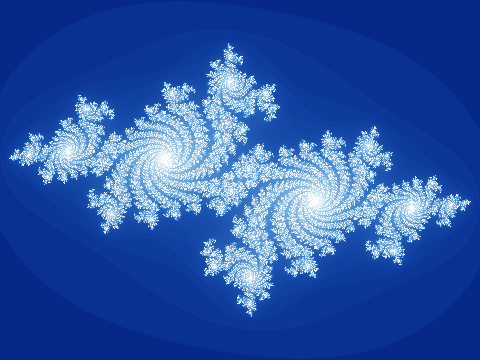
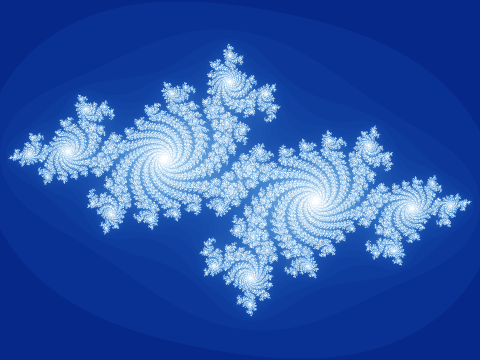
added a first downsizing impl.

Changed region(s): [[0.0, 0.1222, 1.0, 0.8861]]

diff --git a/sources/main.c b/sources/main.c
@@ -11,24 +11,30 @@
 static const unsigned int kWidth = 480;
 static const unsigned int kHeight = 360;
 
-static const unsigned int kFlagWidth = 480;
-static const unsigned int kFlagHeight = 320;
+static const unsigned int kFlagWidth = 48;
+static const unsigned int kFlagHeight = 32;
 
 
 int main(int argc, char *argv[])
 {
-    unsigned char *image = malloc(kWidth * kHeight * 3);
-
+    unsigned char *image = malloc(kWidth * kHeight * 4 * 3);
+    unsigned char *reducedImage = NULL;
 
     // Country flags
-    RenderFrenchFlag(image, kFlagWidth, kFlagHeight);
-    SaveImagePNG("result/flagFR.png", image, kFlagWidth, kFlagHeight);
+    RenderFrenchFlag(image, kFlagWidth << 1, kFlagHeight << 1);
+    reducedImage = Downsize(image, kFlagWidth << 1, kFlagHeight << 1);
+    SaveImagePNG("result/flagFR.png", reducedImage, kFlagWidth, kFlagHeight);
+    free(reducedImage);
 
-    RenderJapaneseFlag(image, kFlagWidth, kFlagHeight);
-    SaveImagePNG("result/flagJP.png", image, kFlagWidth, kFlagHeight);
+    RenderJapaneseFlag(image, kFlagWidth << 1, kFlagHeight << 1);
+    reducedImage = Downsize(image, kFlagWidth << 1, kFlagHeight << 1);
+    SaveImagePNG("result/flagJP.png", reducedImage, kFlagWidth, kFlagHeight);
+    free(reducedImage);
 
-    RenderAmericanFlag(image, kFlagWidth, kFlagHeight);
-    SaveImagePNG("result/flagUS.png", image, kFlagWidth, kFlagHeight);
+    RenderAmericanFlag(image, kFlagWidth << 1, kFlagHeight << 1);
+    reducedImage = Downsize(image, kFlagWidth << 1, kFlagHeight << 1);
+    SaveImagePNG("result/flagUS.png", reducedImage, kFlagWidth, kFlagHeight);
+    free(reducedImage);
 
 
     // Fractals
@@ -40,8 +46,10 @@ int main(int argc, char *argv[])
     params.xMin = -2.2; params.xMax = 1.03;
     params.yMin = -1.33; params.yMax = 1.33;
 
-    RenderFractal(params, image, kWidth, kHeight);
-    SaveImagePNG("result/mandelbrot.png", image, kWidth, kHeight);
+    RenderFractal(params, image, kWidth << 1, kHeight << 1);
+    reducedImage = Downsize(image, kWidth << 1, kHeight << 1);
+    SaveImagePNG("result/mandelbrot.png", reducedImage, kWidth, kHeight);
+    free(reducedImage);
 
     // Julia set
     params.mode = FractalModeJulia;
@@ -49,14 +57,18 @@ int main(int argc, char *argv[])
     params.yMin = -1.17; params.yMax = 1.17;
     params.cr = -0.7; params.ci = 0.27;
 
-    RenderFractal(params, image, kWidth, kHeight);
-    SaveImagePNG("result/julia.png", image, kWidth, kHeight);
+    RenderFractal(params, image, kWidth << 1, kHeight << 1);
+    reducedImage = Downsize(image, kWidth << 1, kHeight << 1);
+    SaveImagePNG("result/julia.png", reducedImage, kWidth, kHeight);
+    free(reducedImage);
 
     params.xMin = -1.44; params.xMax = 1.44;
     params.cr = -0.4; params.ci = 0.6;
 
-    RenderFractal(params, image, kWidth, kHeight);
-    SaveImagePNG("result/julia2.png", image, kWidth, kHeight);
+    RenderFractal(params, image, kWidth << 1, kHeight << 1);
+    reducedImage = Downsize(image, kWidth << 1, kHeight << 1);
+    SaveImagePNG("result/julia2.png", reducedImage, kWidth, kHeight);
+    free(reducedImage);
 
     free(image);
 

diff --git a/sources/tools/image.c b/sources/tools/image.c
@@ -1,0 +1,35 @@
+// image.c
+//
+// written by Thomas CARTON
+//
+
+#include <stdlib.h>
+
+#include "image.h"
+
+
+unsigned char *Downsize(unsigned char *image, unsigned int width, unsigned int height)
+{
+    unsigned int line = width * 3;
+
+    width >>= 1; height >>= 1;
+    unsigned char *out = malloc(3 * width * height);
+
+    for (unsigned int y = 0; y < height; ++y)
+    {
+        for (unsigned int x = 0; x < width; ++x)
+        {
+            unsigned int ip = y * 4 * width + 2 * x;
+            unsigned char r = ((unsigned short)image[ip * 3 + 0] + image[ip * 3 + line + 0] + image[ip * 3 + 3 + 0] + image[ip * 3 + 3 + line + 0]) >> 2;
+            unsigned char g = ((unsigned short)image[ip * 3 + 1] + image[ip * 3 + line + 1] + image[ip * 3 + 3 + 1] + image[ip * 3 + 3 + line + 1]) >> 2;
+            unsigned char b = ((unsigned short)image[ip * 3 + 2] + image[ip * 3 + line + 2] + image[ip * 3 + 3 + 2] + image[ip * 3 + 3 + line + 2]) >> 2;
+
+            unsigned int op = y * width + x;
+            out[op * 3 + 0] = r;
+            out[op * 3 + 1] = g;
+            out[op * 3 + 2] = b;
+        }
+    }
+    
+    return out;
+}

diff --git a/sources/tools/image.h b/sources/tools/image.h
@@ -7,9 +7,11 @@
 #define __IMAGE_H_
 
 
-void SaveImagePNG(char *filename, unsigned char *image, int width, int height);
-void SaveImagePPM(char *filename, unsigned char *image, int width, int height);
-void SaveImageTGA(char *filename, unsigned char *image, int width, int height);
+void SaveImagePNG(char *filename, unsigned char *image, unsigned int width, unsigned int height);
+void SaveImagePPM(char *filename, unsigned char *image, unsigned int width, unsigned int height);
+void SaveImageTGA(char *filename, unsigned char *image, unsigned int width, unsigned int height);
+
+unsigned char *Downsize(unsigned char *image, unsigned int width, unsigned int height);
 
 
 #endif // __IMAGE_H_

diff --git a/sources/tools/imageTGA.c b/sources/tools/imageTGA.c
@@ -34,7 +34,7 @@ typedef struct
 #pragma pack(pop)
 
 
-void SaveImageTGA(char *filename, unsigned char *image, int width, int height)
+void SaveImageTGA(char *filename, unsigned char *image, unsigned int width, unsigned int height)
 {
 	FILE *outputFile = fopen(filename, "w");
 	if (outputFile == NULL)

diff --git a/sources/tools/imagePNG.c b/sources/tools/imagePNG.c
@@ -151,8 +151,7 @@ void pngout_rgb(struct pngout *s, uint8_t r, uint8_t g, uint8_t b)
 }
 
 
-
-void SaveImagePNG(char *filename, unsigned char *image, int width, int height)
+void SaveImagePNG(char *filename, unsigned char *image, unsigned int width, unsigned int height)
 {
     struct pngout s;
 

diff --git a/sources/tools/imagePPM.c b/sources/tools/imagePPM.c
@@ -8,7 +8,7 @@
 #include "image.h"
 
 
-void SaveImagePPM(char *filename, unsigned char *image, int width, int height)
+void SaveImagePPM(char *filename, unsigned char *image, unsigned int width, unsigned int height)
 {
 	FILE *outputFile = fopen(filename, "w");
 
